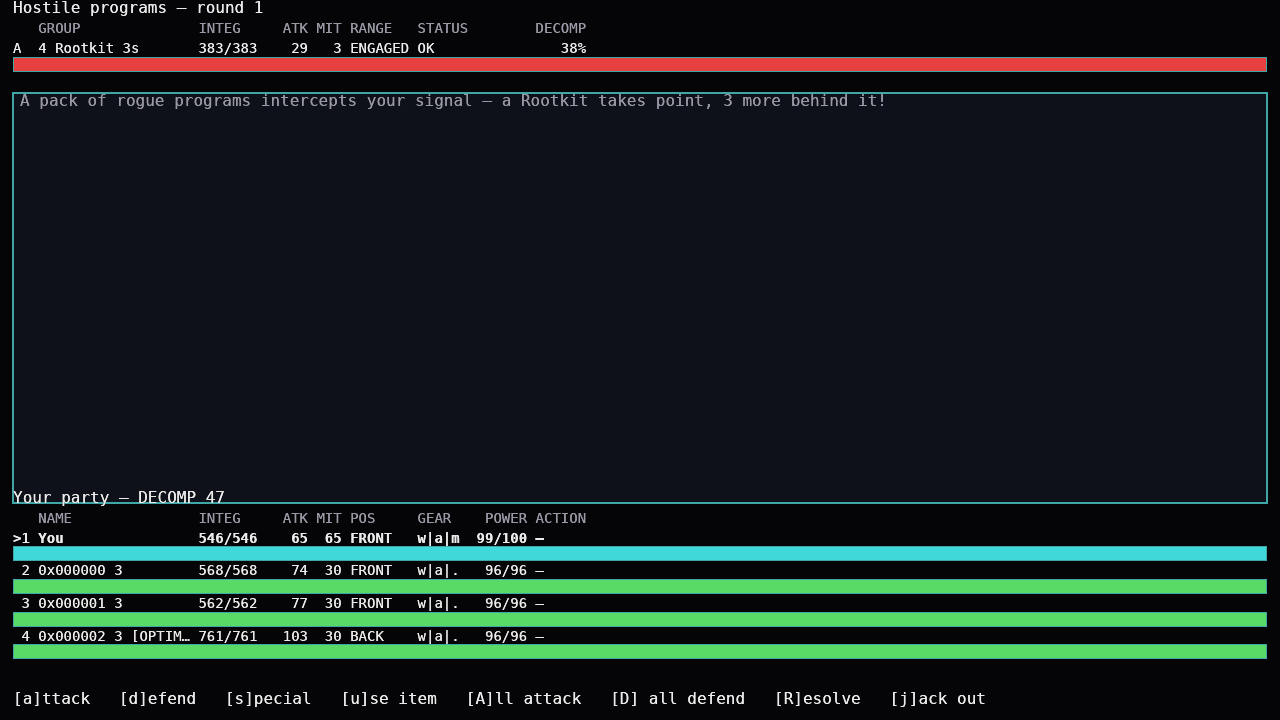
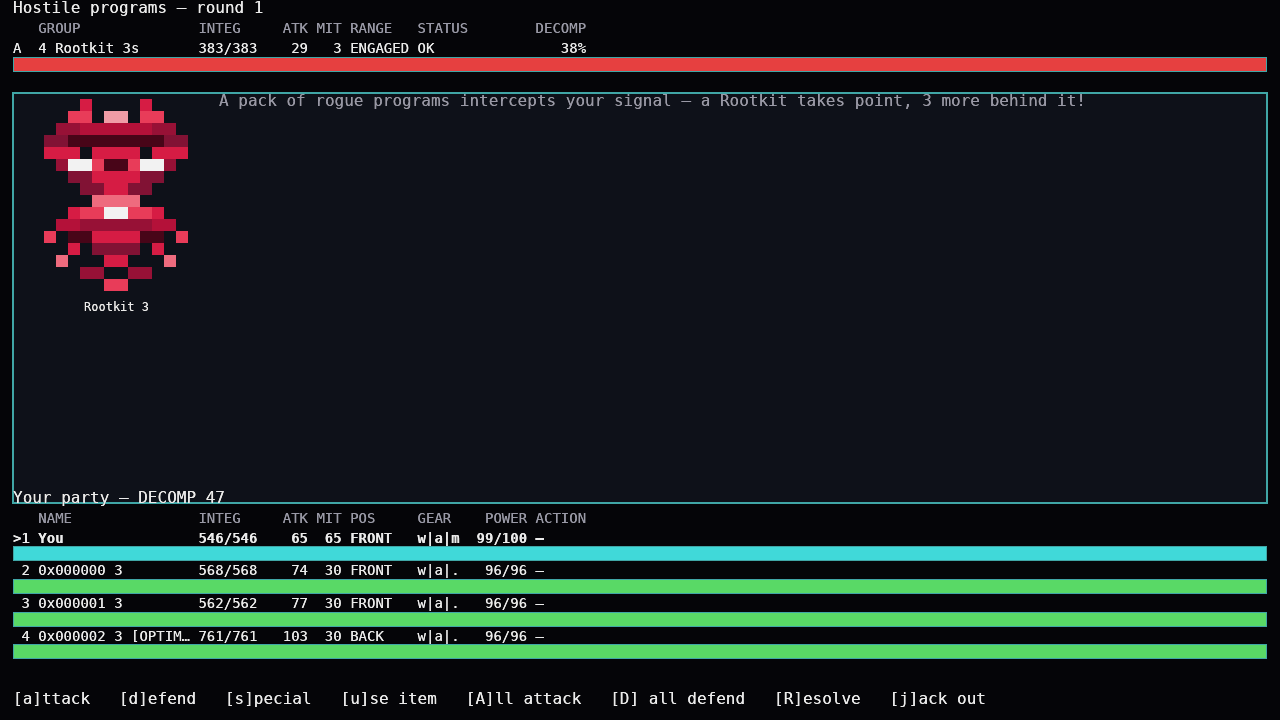
docs(site): battle shot shows the picture window (0.15.12)
Claude-Session: https://claude.ai/code/session_01NHCWb1E1NgwMDh3wvNJyys

Changed region(s): [[0.0312, 0.1222, 0.8438, 0.4278]]

diff --git a/index.html b/index.html
@@ -725,8 +725,8 @@ footer{border-top:1px solid var(--line-soft);padding:64px 0 48px;background:#090
 
     <div class="gallery">
       <figure class="shot full">
-        <img src="img/intrusion.png" alt="A battle: a group of four Rootkits at the top, the player's party and their gear at the bottom, and the list of commands" width="1280" height="720" loading="lazy">
-        <figcaption>A battle against four Rootkits.</figcaption>
+        <img src="img/intrusion.png" alt="A battle: a group of four Rootkits at the top, a picture of the Rootkit in front beside the battle log, the player's party and their gear at the bottom, and the list of commands" width="1280" height="720" loading="lazy">
+        <figcaption>A battle against four Rootkits. The picture shows whoever is acting.</figcaption>
       </figure>
       <figure class="shot">
         <img src="img/roster.png" alt="The party roster: each program with its level, health, attack, defence, power and current job" width="1280" height="720" loading="lazy">
